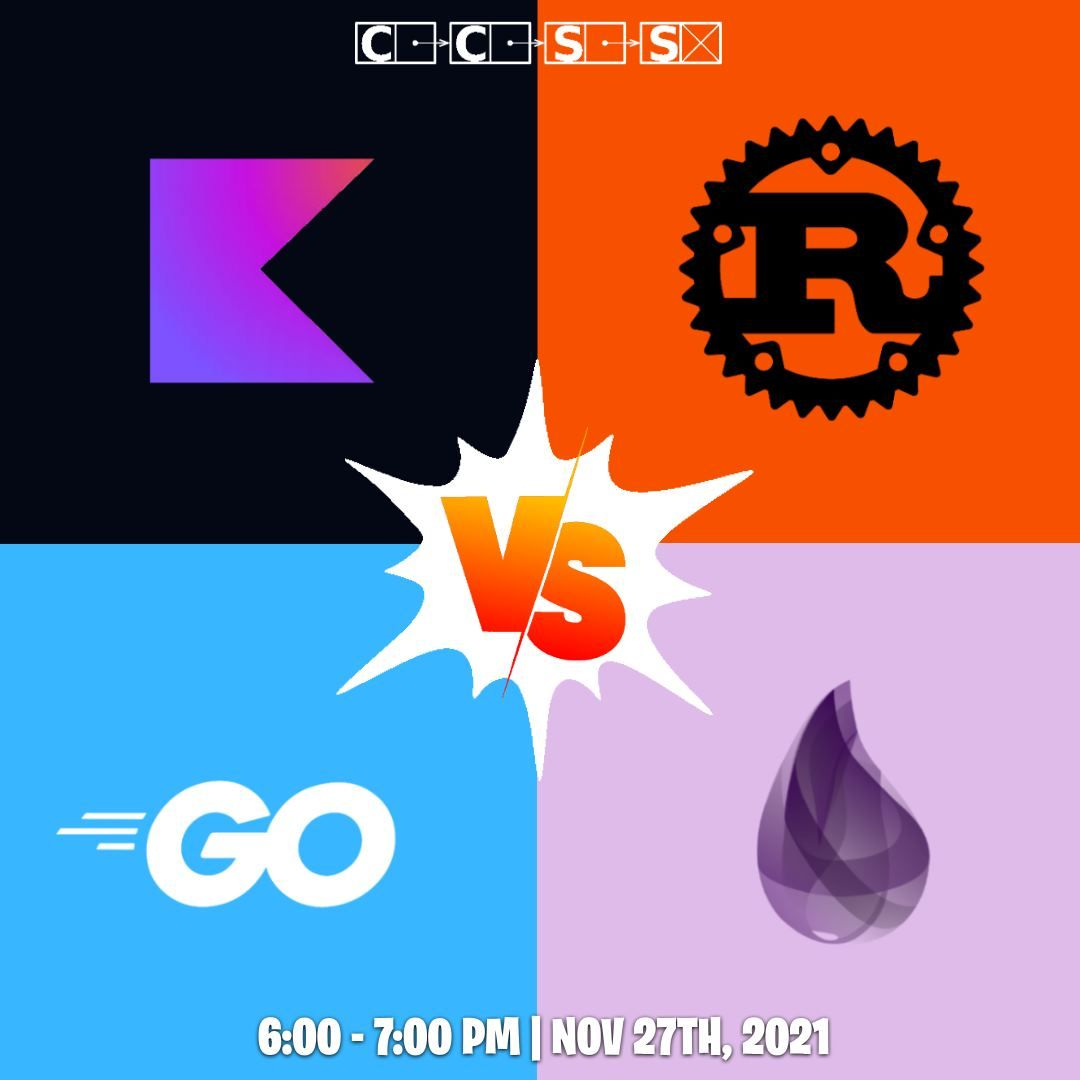
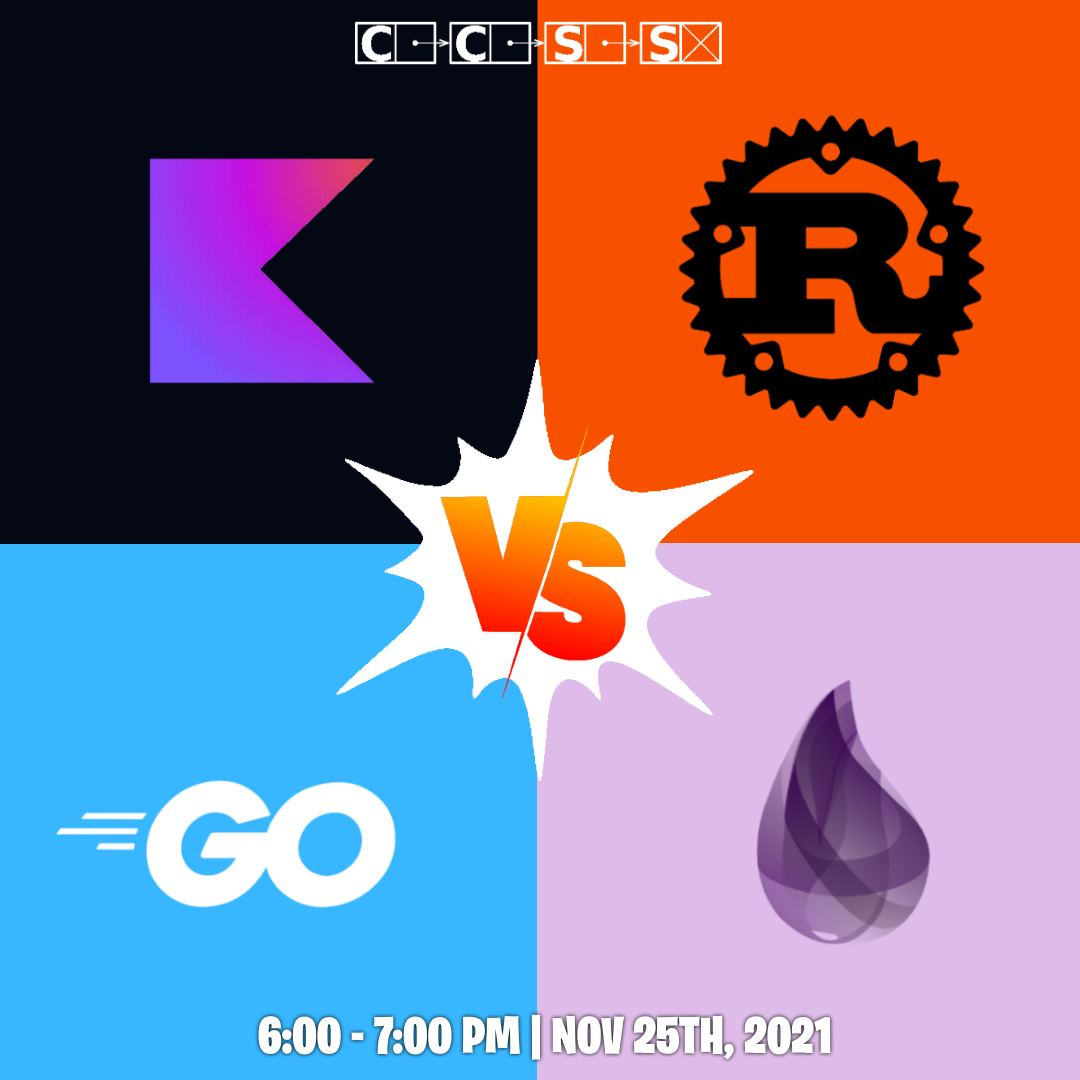
fix timezone and poster

Changed region(s): [[0.5806, 0.9167, 0.7944, 0.9778], [0.2444, 0.9167, 0.4889, 0.9778], [0.5194, 0.9167, 0.5806, 0.9778]]

diff --git a/content/events/2021-2022/2021-11-25-lightning-talks-language-edition.md b/content/events/2021-2022/2021-11-25-lightning-talks-language-edition.md
@@ -8,7 +8,7 @@ poster: "images/event_posters/2021-2022/lightning_talks_languages.jpg"
 poster_cover: "contain"
 poster_position: "center"
 short_description: "Learn all about Kotlin, Golang, Rust, and Elixir!"
-start_time: "6:00 - 7:00 PM EDT"
+start_time: "6:00 - 7:00 PM EST"
 location: "Coming Soon"
 location_link: "#comingsoon"
 background: "images/orientation2018-min.jpeg"
@@ -18,3 +18,5 @@ publishdate: 2021-01-01
 # Description
 
 On Thursday, Nov 25th @ 6PM we will be hosting four back-to-back lightning talks all about modern programming languages! Join our panel of experienced Carleton students and alumni to learn all about the pros, cons, and real world use cases of Kotlin, Golang, Rust, and Elixir. 
+
+More information, including the meeting link, can be found here: https://ccss.carleton.ca/events/2021-2022/2021-11-25-lightning-talks-language-edition/
